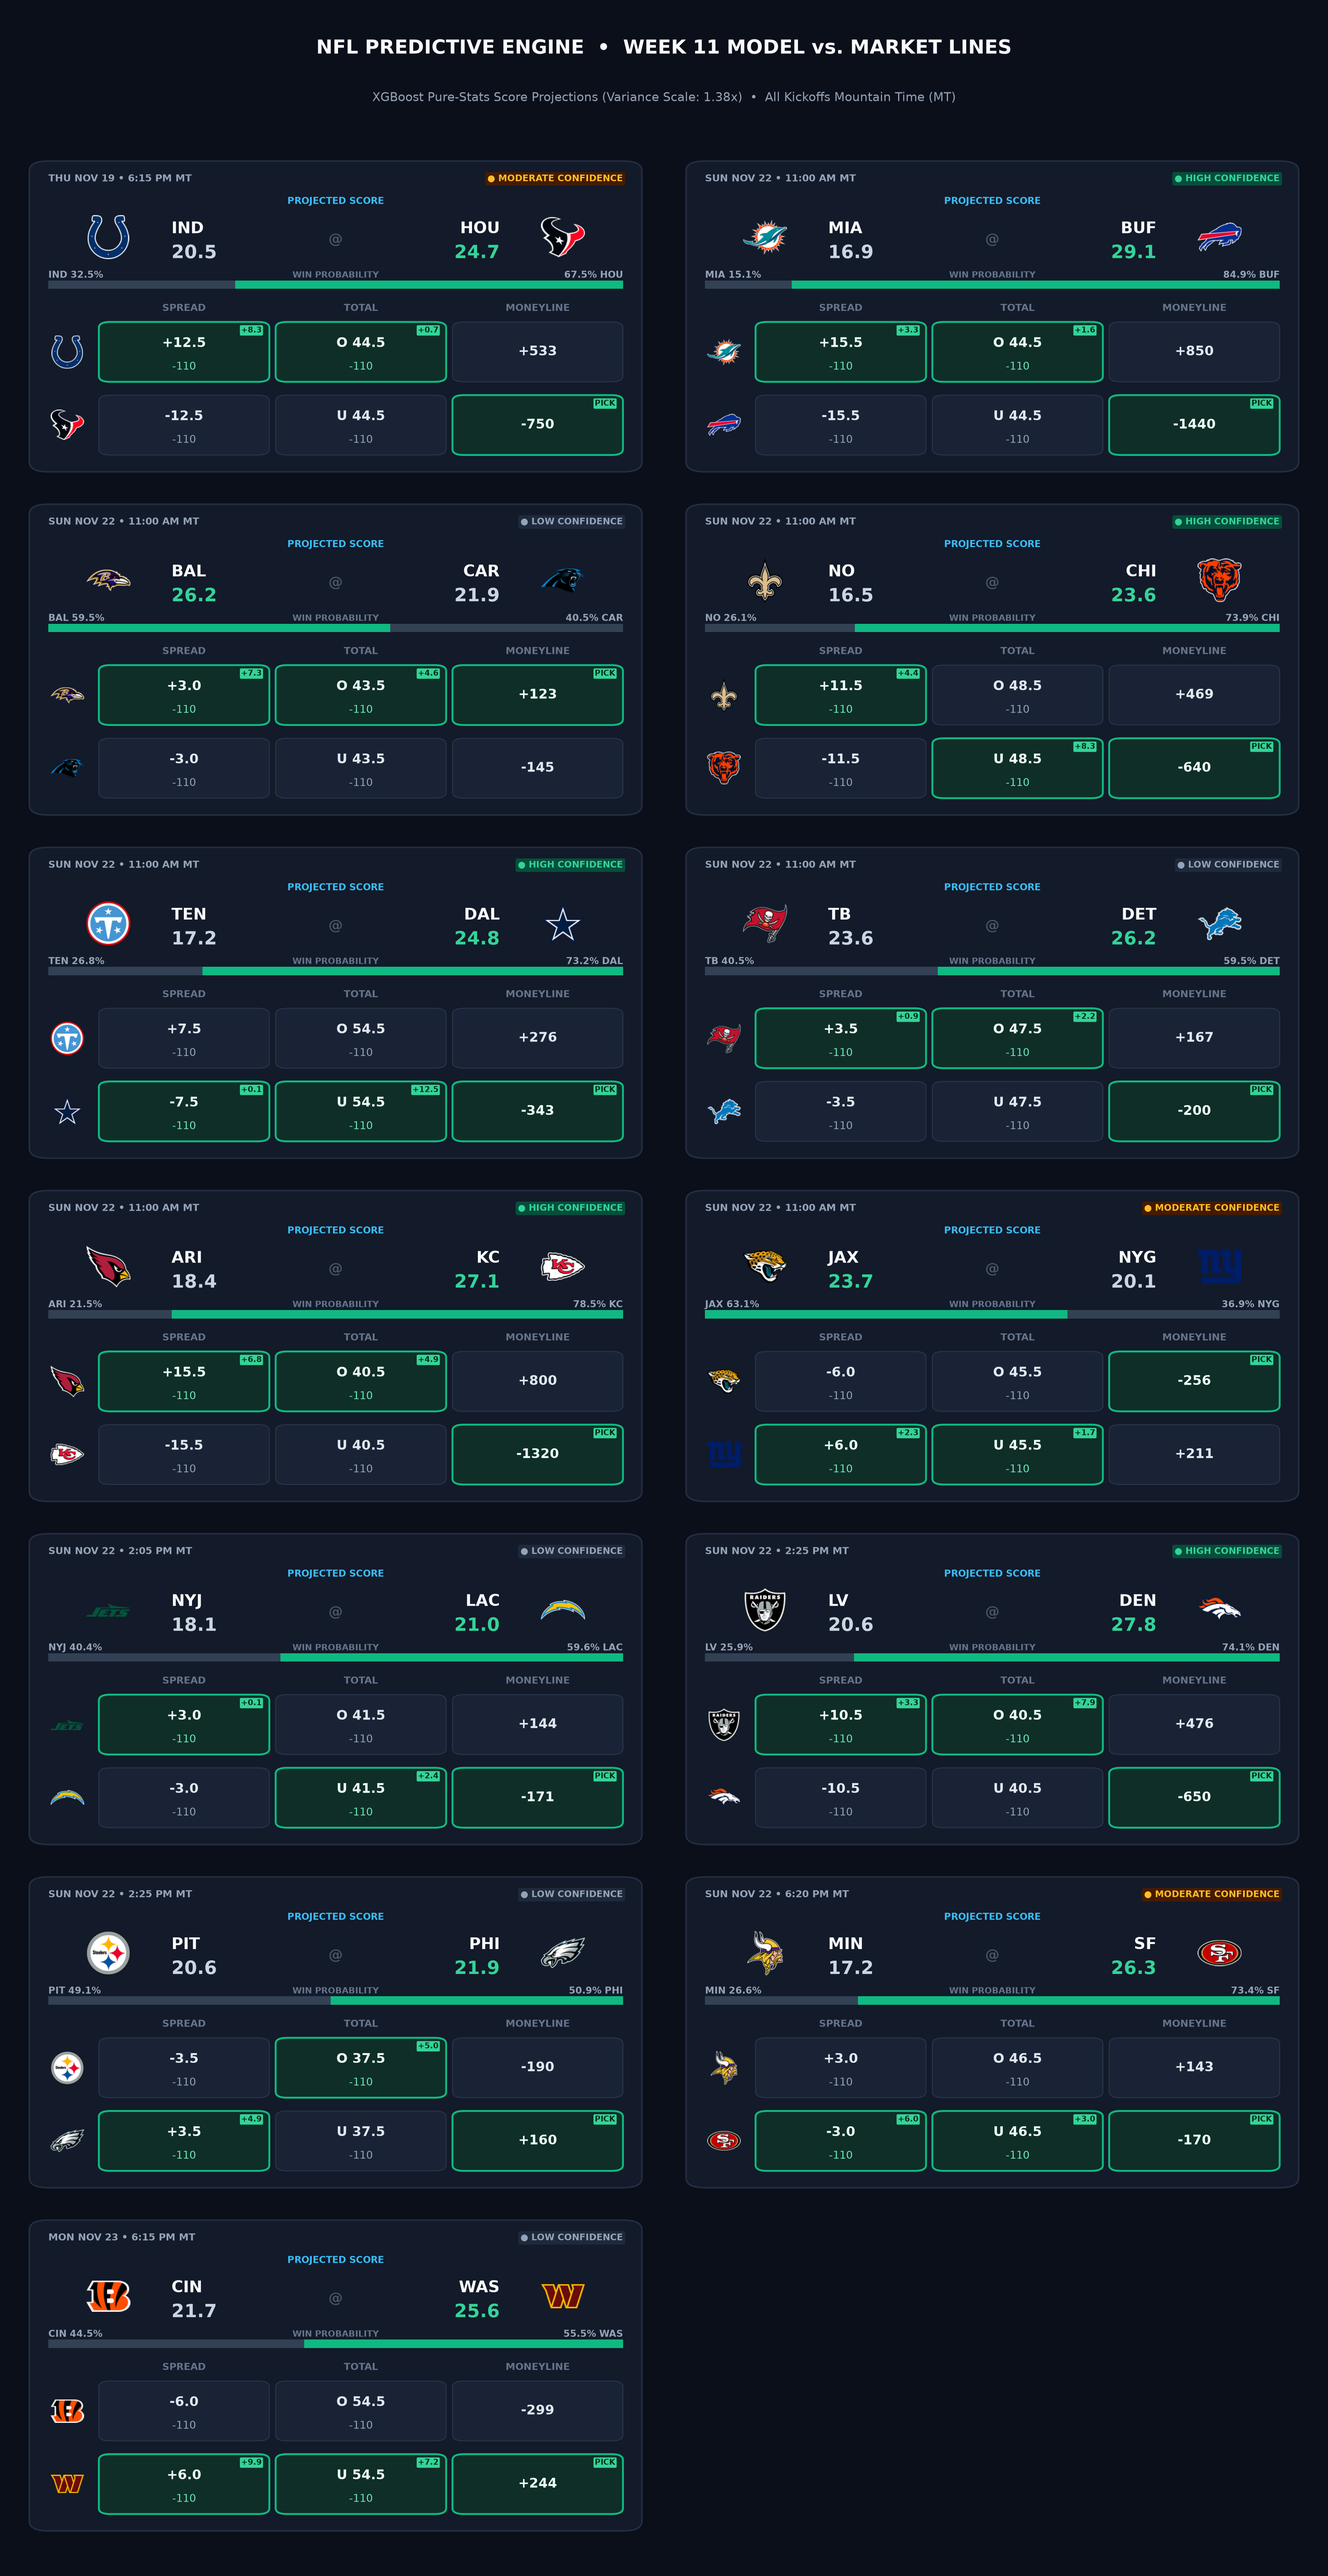
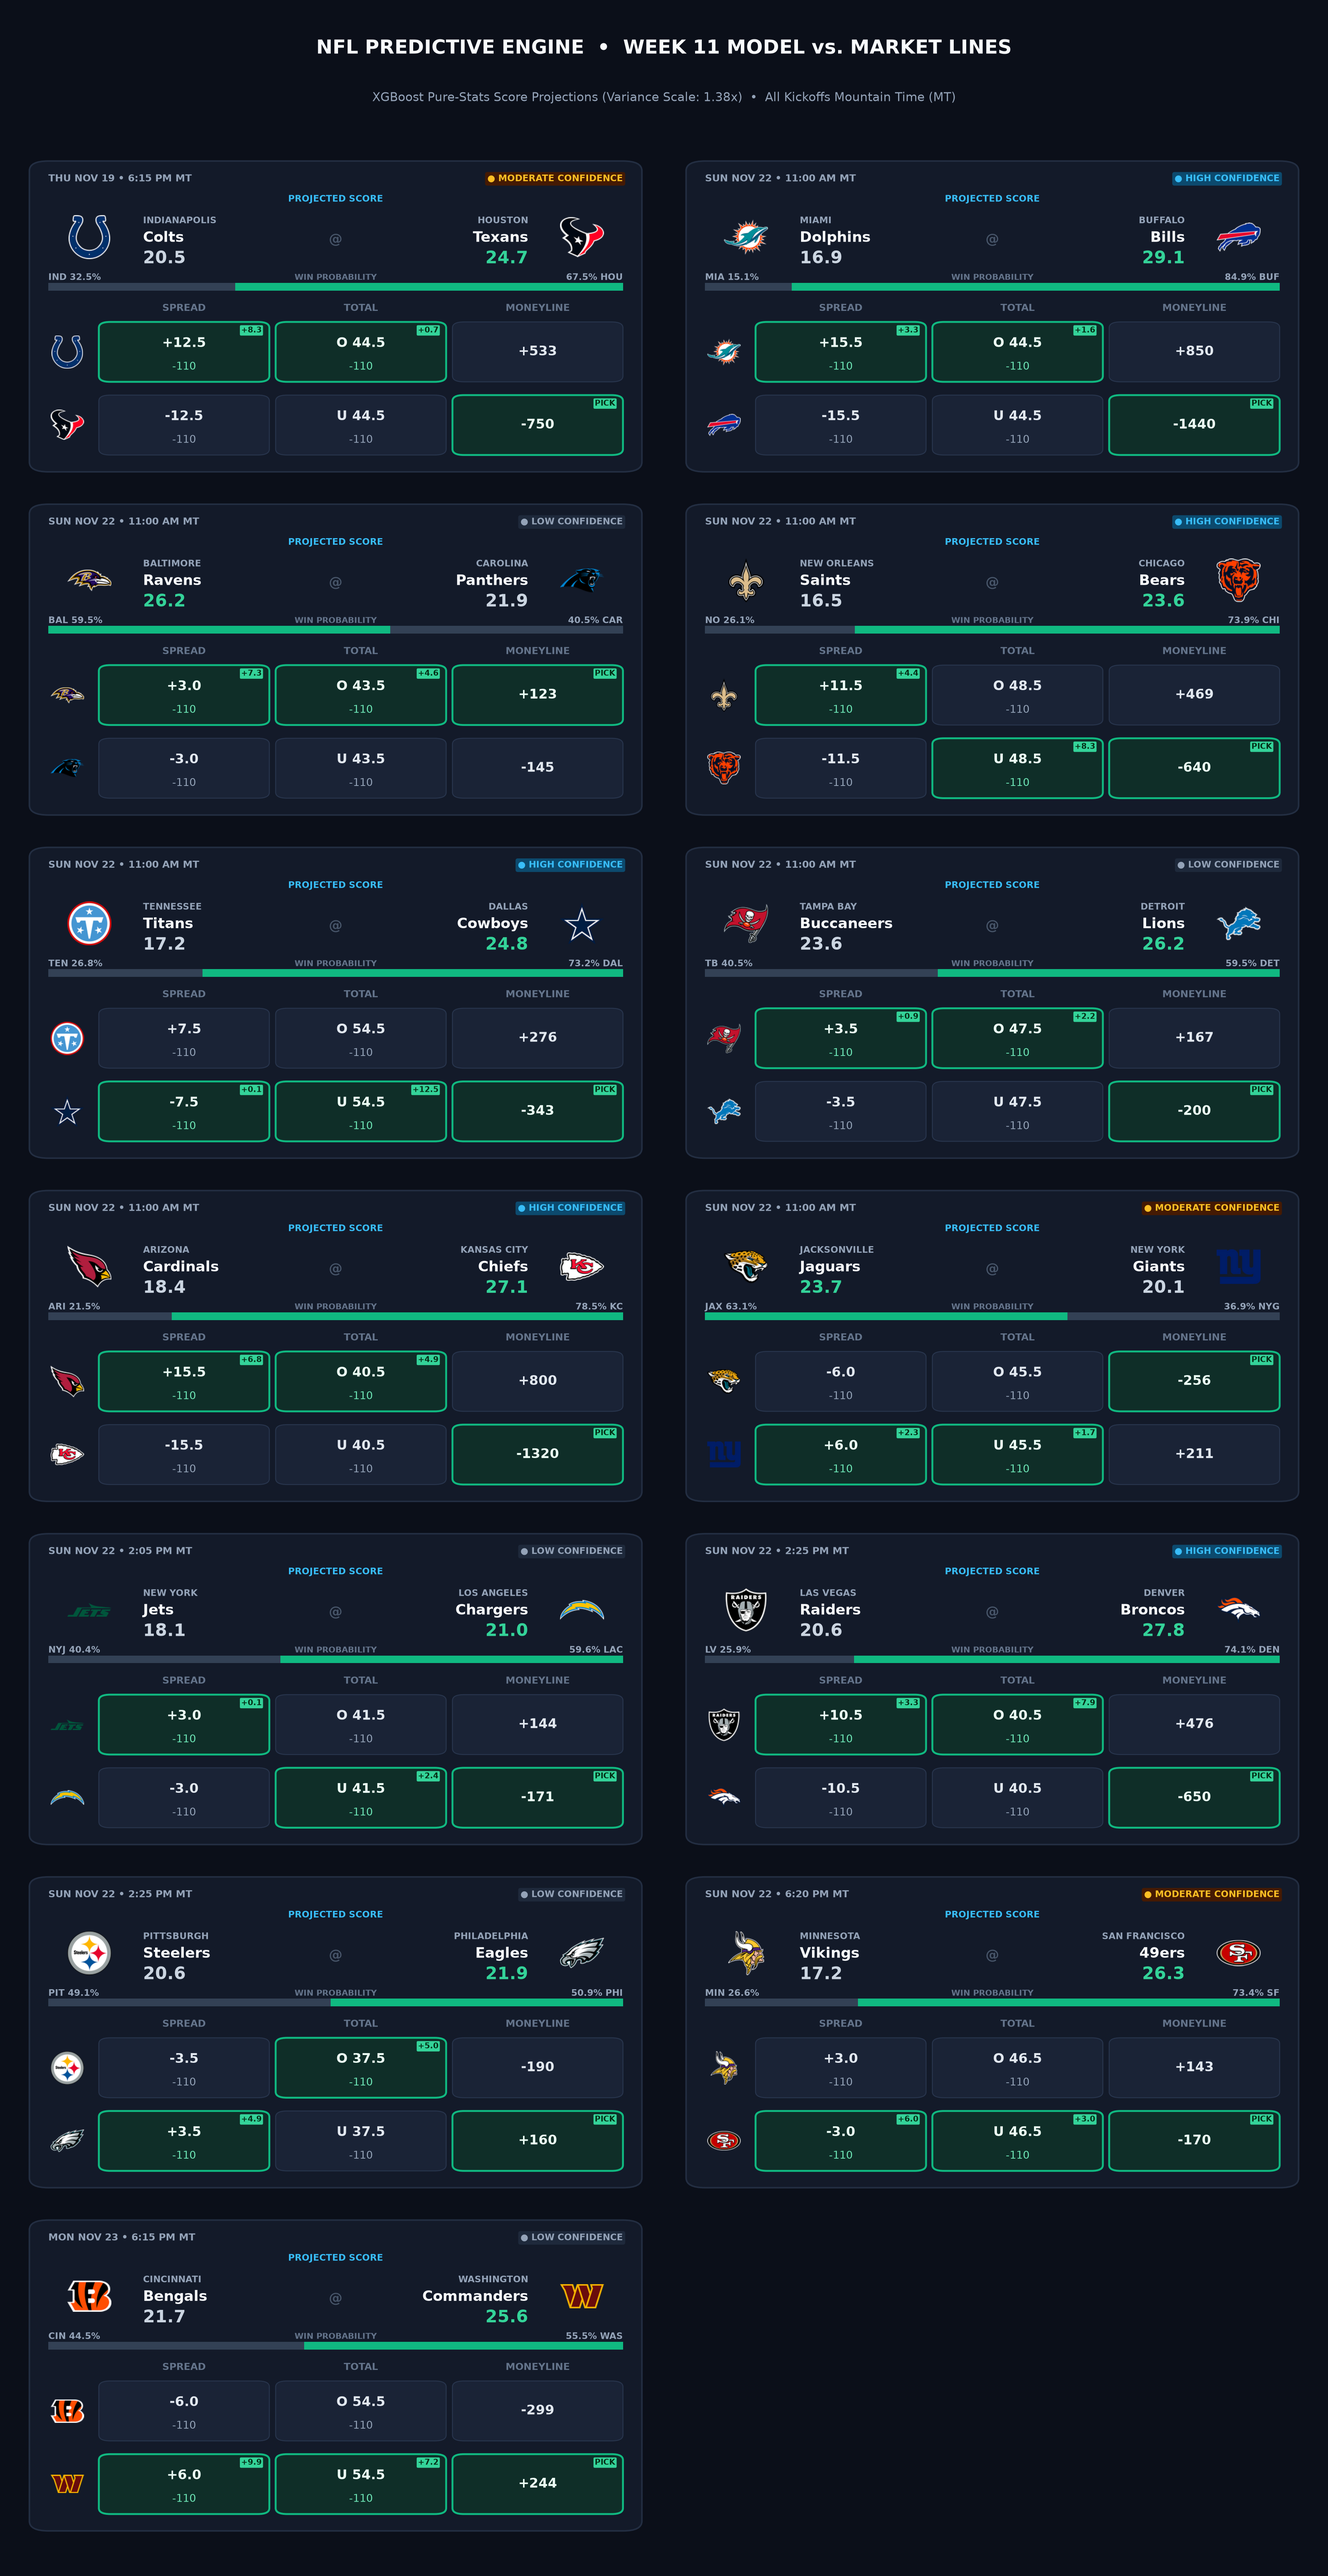
docs: update latest_predictions.png with dark-slate matchup board and its style to display full name

diff --git a/src/render_prediction_table.py b/src/render_prediction_table.py
@@ -20,6 +20,19 @@ PROJECT_ROOT = (
 PREDICTIONS_BASE = os.path.join(PROJECT_ROOT, 'predictions')
 ASSETS_DIR = os.path.join(PROJECT_ROOT, 'assets')
 LOGOS_DIR = os.path.join(ASSETS_DIR, 'logos')
+FULL_TEAM_NAMES = {
+    'ARI': 'Arizona Cardinals', 'ATL': 'Atlanta Falcons', 'BAL': 'Baltimore Ravens',
+    'BUF': 'Buffalo Bills', 'CAR': 'Carolina Panthers', 'CHI': 'Chicago Bears',
+    'CIN': 'Cincinnati Bengals', 'CLE': 'Cleveland Browns', 'DAL': 'Dallas Cowboys',
+    'DEN': 'Denver Broncos', 'DET': 'Detroit Lions', 'GB': 'Green Bay Packers',
+    'HOU': 'Houston Texans', 'IND': 'Indianapolis Colts', 'JAX': 'Jacksonville Jaguars',
+    'KC': 'Kansas City Chiefs', 'LAC': 'Los Angeles Chargers', 'LAR': 'Los Angeles Rams',
+    'LA': 'Los Angeles Rams', 'LV': 'Las Vegas Raiders', 'MIA': 'Miami Dolphins',
+    'MIN': 'Minnesota Vikings', 'NE': 'New England Patriots', 'NO': 'New Orleans Saints',
+    'NYG': 'New York Giants', 'NYJ': 'New York Jets', 'PHI': 'Philadelphia Eagles',
+    'PIT': 'Pittsburgh Steelers', 'SEA': 'Seattle Seahawks', 'SF': 'San Francisco 49ers',
+    'TB': 'Tampa Bay Buccaneers', 'TEN': 'Tennessee Titans', 'WAS': 'Washington Commanders',
+}
 os.makedirs(LOGOS_DIR, exist_ok=True)
 
 # --- DYNAMIC TARGET CONFIGURATION ---
@@ -152,8 +165,14 @@ def draw_custom_matchup_card(ax, game_obj: dict, kickoff_label: str):
 
     away_abbr = game_obj['away_team']['abbr']
     home_abbr = game_obj['home_team']['abbr']
+    away_full = FULL_TEAM_NAMES.get(away_abbr, game_obj['away_team'].get('name', away_abbr))
+    home_full = FULL_TEAM_NAMES.get(home_abbr, game_obj['home_team'].get('name', home_abbr))
+
+    # Split "Chicago Bears" -> ("Chicago", "Bears") and "San Francisco 49ers" -> ("San Francisco", "49ers")
+    away_city, away_nick = away_full.rsplit(' ', 1)
+    home_city, home_nick = home_full.rsplit(' ', 1)
+
     p = game_obj['prediction']
-    # Support both new 'market_lines' key and older 'betmgm_lines' key
     mkt = game_obj.get('market_lines') or game_obj.get('betmgm_lines', {})
 
     away_score = p.get('away_projected_score', 0.0)
@@ -167,9 +186,9 @@ def draw_custom_matchup_card(ax, game_obj: dict, kickoff_label: str):
 
     tier = p.get('confidence_tier', 'Low')
     tier_palette = {
-        'High': ('#064E3B', '#34D399'),
-        'Moderate': ('#451A03', '#FBBF24'),
-        'Low': ('#1E293B', '#94A3B8'),
+        'High': ('#0C4A6E', '#38BDF8'),      # Electric Cyan / Sky Blue badge (distinct from emerald picks)
+        'Moderate': ('#451A03', '#FBBF24'),  # Warm Amber Gold badge
+        'Low': ('#1E293B', '#94A3B8'),       # Neutral Slate badge
     }
     t_bg, t_fg = tier_palette.get(tier, ('#1E293B', '#94A3B8'))
     ax.text(
@@ -180,31 +199,35 @@ def draw_custom_matchup_card(ax, game_obj: dict, kickoff_label: str):
     )
 
     # --- SCOREBOARD HERO HEADER ---
-    ax.text(0.50, 0.855, 'PROJECTED SCORE', ha='center', va='center',
-            fontsize=7.8, fontweight='bold', color='#38BDF8', transform=ax.transAxes, zorder=3)
+    ax.text(0.50, 0.862, 'PROJECTED SCORE', ha='center', va='center',
+            fontsize=7.6, fontweight='bold', color='#38BDF8', transform=ax.transAxes, zorder=3)
 
-    # Away Team Block (Left)
-    ax.add_artist(AnnotationBbox(get_team_logo(away_abbr, max_px=74), (0.14, 0.745), frameon=False, xycoords='axes fraction', zorder=4))
-    ax.text(0.24, 0.77, away_abbr, ha='left', va='center',
-            fontsize=13.5, fontweight='bold', color='#F8FAFC', transform=ax.transAxes, zorder=3)
+    # Away Team Block (Left: Logo + City + Nickname + Score)
+    ax.add_artist(AnnotationBbox(get_team_logo(away_abbr, max_px=74), (0.11, 0.745), frameon=False, xycoords='axes fraction', zorder=4))
+    ax.text(0.195, 0.795, away_city.upper(), ha='left', va='center',
+            fontsize=7.4, fontweight='bold', color='#94A3B8', transform=ax.transAxes, zorder=3)
+    ax.text(0.195, 0.742, away_nick, ha='left', va='center',
+            fontsize=12.0, fontweight='bold', color='#F8FAFC', transform=ax.transAxes, zorder=3)
     away_score_color = '#34D399' if away_score > home_score else '#CBD5E1'
-    ax.text(0.24, 0.695, f"{away_score:.1f}", ha='left', va='center',
-            fontsize=15.5, fontweight='bold', color=away_score_color, transform=ax.transAxes, zorder=3)
+    ax.text(0.195, 0.678, f"{away_score:.1f}", ha='left', va='center',
+            fontsize=14.5, fontweight='bold', color=away_score_color, transform=ax.transAxes, zorder=3)
 
     # Center @ Divider
     ax.text(0.50, 0.735, '@', ha='center', va='center',
-            fontsize=12.0, fontweight='bold', color='#475569', transform=ax.transAxes, zorder=3)
+            fontsize=11.5, fontweight='bold', color='#475569', transform=ax.transAxes, zorder=3)
 
-    # Home Team Block (Right)
-    ax.add_artist(AnnotationBbox(get_team_logo(home_abbr, max_px=74), (0.86, 0.745), frameon=False, xycoords='axes fraction', zorder=4))
-    ax.text(0.76, 0.77, home_abbr, ha='right', va='center',
-            fontsize=13.5, fontweight='bold', color='#F8FAFC', transform=ax.transAxes, zorder=3)
+    # Home Team Block (Right: Logo + City + Nickname + Score)
+    ax.add_artist(AnnotationBbox(get_team_logo(home_abbr, max_px=74), (0.89, 0.745), frameon=False, xycoords='axes fraction', zorder=4))
+    ax.text(0.805, 0.795, home_city.upper(), ha='right', va='center',
+            fontsize=7.4, fontweight='bold', color='#94A3B8', transform=ax.transAxes, zorder=3)
+    ax.text(0.805, 0.742, home_nick, ha='right', va='center',
+            fontsize=12.0, fontweight='bold', color='#F8FAFC', transform=ax.transAxes, zorder=3)
     home_score_color = '#34D399' if home_score >= away_score else '#CBD5E1'
-    ax.text(0.76, 0.695, f"{home_score:.1f}", ha='right', va='center',
-            fontsize=15.5, fontweight='bold', color=home_score_color, transform=ax.transAxes, zorder=3)
+    ax.text(0.805, 0.678, f"{home_score:.1f}", ha='right', va='center',
+            fontsize=14.5, fontweight='bold', color=home_score_color, transform=ax.transAxes, zorder=3)
 
-    # --- WIN PROBABILITY SPLIT BAR ---
-    bar_x, bar_y, bar_w, bar_h = 0.045, 0.585, 0.91, 0.026
+    # --- WIN PROBABILITY SPLIT BAR (Full Team Names) ---
+    bar_x, bar_y, bar_w, bar_h = 0.045, 0.580, 0.91, 0.024
     away_w = max(0.08, min(0.92, away_prob)) * bar_w
     home_w = bar_w - away_w
 
@@ -214,12 +237,12 @@ def draw_custom_matchup_card(ax, game_obj: dict, kickoff_label: str):
     ax.add_patch(patches.Rectangle((bar_x, bar_y), away_w, bar_h, facecolor=away_bar_color, edgecolor='none', transform=ax.transAxes, zorder=3))
     ax.add_patch(patches.Rectangle((bar_x + away_w, bar_y), home_w, bar_h, facecolor=home_bar_color, edgecolor='none', transform=ax.transAxes, zorder=3))
 
-    ax.text(bar_x, bar_y + 0.042, f"{away_abbr} {away_prob*100:.1f}%", ha='left', va='center',
-            fontsize=7.8, fontweight='bold', color='#94A3B8', transform=ax.transAxes, zorder=3)
-    ax.text(0.50, bar_y + 0.042, "WIN PROBABILITY", ha='center', va='center',
-            fontsize=7.2, fontweight='bold', color='#64748B', transform=ax.transAxes, zorder=3)
-    ax.text(bar_x + bar_w, bar_y + 0.042, f"{home_prob*100:.1f}% {home_abbr}", ha='right', va='center',
-            fontsize=7.8, fontweight='bold', color='#94A3B8', transform=ax.transAxes, zorder=3)
+    ax.text(bar_x, bar_y + 0.040, f"{away_abbr} {away_prob*100:.1f}%", ha='left', va='center',
+            fontsize=7.6, fontweight='bold', color='#94A3B8', transform=ax.transAxes, zorder=3)
+    ax.text(0.50, bar_y + 0.040, "WIN PROBABILITY", ha='center', va='center',
+            fontsize=7.0, fontweight='bold', color='#64748B', transform=ax.transAxes, zorder=3)
+    ax.text(bar_x + bar_w, bar_y + 0.040, f"{home_prob*100:.1f}% {home_abbr}", ha='right', va='center',
+            fontsize=7.6, fontweight='bold', color='#94A3B8', transform=ax.transAxes, zorder=3)
 
     # --- MARKET MATRIX HEADERS ---
     col_x = [0.125, 0.405, 0.685]
